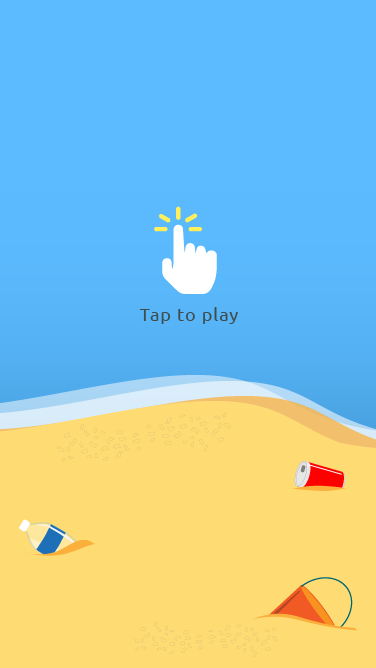
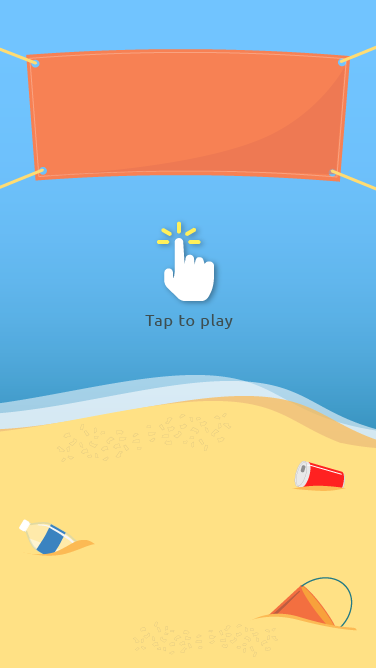
Amend layout of menu and game over screens

diff --git a/states/gameOver.js b/states/gameOver.js
@@ -11,17 +11,17 @@ GameOver.prototype = {
 
   addMenuOption: function(text, callback) {
     var optionStyle = { font: '25pt ubuntu', fill: 'white', align: 'left', stroke: 'rgba(0,0,0,0)', strokeThickness: 4};
-    var txt = game.add.text(game.world.centerX, (this.optionCount * 80) + 370, text, optionStyle);
+    var txt = game.add.text(game.world.centerX, (this.optionCount * 60) + 450, text, optionStyle);
     txt.anchor.setTo(0.5);
     txt.stroke = "rgba(0,0,0,0)";
-    txt.strokeThickness = 4;
+    txt.setShadow(2, 2, 'rgba(0,0,0,0.6)', 5);
     var onOver = function (target) {
-      target.fill = "#FEFFD5";
-      target.stroke = "rgba(200,200,200,0.5)";
+      target.fill = "#fff";
+      target.stroke = "rgba(0,0,0,0.1)";
       txt.useHandCursor = true;
     };
     var onOut = function (target) {
-      target.fill = "white";
+      target.fill = "#fff";
       target.stroke = "rgba(0,0,0,0)";
       txt.useHandCursor = false;
     };
@@ -35,7 +35,9 @@ GameOver.prototype = {
   },
 
   create: function () {
-    game.stage.backgroundColor = "#C1666B";
+    //game.stage.backgroundColor = "#f78154";
+    //add game over background
+    game.gameOverBg = game.add.sprite(0, 0, 'bg');
     //game.add.sprite(0, 0, 'gameover-bg');
     var titleStyle = { font: '30pt ubuntu', fill: '#FDFFB5', align: 'center'};
     var scoreStyle = { font: '18pt ubuntu', fill: '#FDFFB5', align: 'center'};
@@ -45,9 +47,9 @@ GameOver.prototype = {
     //var nets = game.add.text(game.world.centerX, 250, finalNets, scoreStyle);
 
     // Add individual totals and sprites for each
-    var netSprite = game.add.sprite(-25, -80, 'net');
-    netSprite.scale.setTo(0.2,0.2);
-    var netTotal = game.add.text(60, 320, finalNets, totalStyle);
+    var netSprite = game.add.sprite(-70, -10, 'net');
+    netSprite.scale.setTo(0.18,0.18);
+    var netTotal = game.add.text(160, 280, finalNets, totalStyle);
     netTotal.addChild(netSprite);
     // Add a click event onto net item total 
     netTotal.inputEnabled=true;
@@ -56,25 +58,25 @@ GameOver.prototype = {
     // workaround for 'closure' (javascript feature)
     netTotal.events.onInputDown.add(this.infoPopup, this, 0, "net");  
    
-    var bottleSprite = game.add.sprite(-25, -80, 'bottle');
-    bottleSprite.scale.setTo(0.2,0.2);
-    var bottleTotal = game.add.text(140, 320, finalBottles, totalStyle);
+    var bottleSprite = game.add.sprite(-70, -10, 'bottle');
+    bottleSprite.scale.setTo(0.18,0.18);
+    var bottleTotal = game.add.text(270, 280, finalBottles, totalStyle);
     bottleTotal.addChild(bottleSprite);
     // Add a click event onto bottle item total 
     bottleTotal.inputEnabled=true;
     bottleTotal.events.onInputDown.add(this.infoPopup, this, 0, "bottle");
 
-    var canSprite = game.add.sprite(-25, -80, 'can');
-    canSprite.scale.setTo(0.2,0.2);
-    var canTotal = game.add.text(220, 320, finalCans, totalStyle);
+    var canSprite = game.add.sprite(-70, -10, 'can');
+    canSprite.scale.setTo(0.18,0.18);
+    var canTotal = game.add.text(160, 350, finalCans, totalStyle);
     canTotal.addChild(canSprite);
     // Add a click event onto can item total 
     canTotal.inputEnabled=true;
     canTotal.events.onInputDown.add(this.infoPopup, this, 0, "can");
 
-    var bucketSprite = game.add.sprite(-25, -80, 'bucket');
-    bucketSprite.scale.setTo(0.2,0.2);
-    var bucketTotal = game.add.text(300, 320, finalBuckets, totalStyle);
+    var bucketSprite = game.add.sprite(-70, -10, 'bucket');
+    bucketSprite.scale.setTo(0.18,0.18);
+    var bucketTotal = game.add.text(270, 350, finalBuckets, totalStyle);
     bucketTotal.addChild(bucketSprite);
     // Add a click event onto bucket item total 
     bucketTotal.inputEnabled=true;

diff --git a/states/gameMenu.js b/states/gameMenu.js
@@ -12,29 +12,30 @@ GameMenu.prototype = {
   },
 
   init: function () {
-    this.titleText = game.make.text(game.world.centerX, 110, "HELP CLEAN\nTHE BEACH!", {
-      font: '35pt ubuntu',
-      fill: '#3e4e50',
+    this.titleText = game.make.text(game.world.centerX, 113, "Help clean\nthe beach!", {
+      font: '30pt ubuntu',
+      fill: '#fff',
       align: 'center'
     });
-    //this.titleText.setShadow(3, 3, 'rgba(0,0,0,0.5)', 5);
+    this.titleText.setShadow(3, 3, 'rgba(0,0,0,0.3)', 5);
     this.titleText.anchor.set(0.5);
     this.optionCount = 1;
   },
 
   addMenuOption: function(text, callback) {
     var optionStyle = { font: '25pt ubuntu', fill: 'white', align: 'left', stroke: 'rgba(0,0,0,0)', strokeThickness: 4};
-    var txt = game.add.text(game.world.centerX, (this.optionCount * 60) + 400, text, optionStyle);
+    var txt = game.add.text(game.world.centerX, (this.optionCount * 60) + 430, text, optionStyle);
     txt.anchor.setTo(0.5);
     txt.stroke = "rgba(0,0,0,0)";
-    txt.strokeThickness = 4;
+    txt.setShadow(2, 2, 'rgba(0,0,0,0.6)', 5);
+    //txt.strokeThickness = 4;
     var onOver = function (target) {
-      target.fill = "#3e92cc";
-      target.stroke = "rgba(200,200,200,0.5)";
+      target.fill = "#fff";
+      target.stroke = "rgba(0,0,0,0.1)";
       txt.useHandCursor = true;
     };
     var onOut = function (target) {
-      target.fill = "white";
+      target.fill = "#fff";
       target.stroke = "rgba(0,0,0,0)";
       txt.useHandCursor = false;
     };

diff --git a/states/options.js b/states/options.js
@@ -22,7 +22,7 @@ Options.prototype = {
     var playSound = gameOptions.playSound,
         playMusic = gameOptions.playMusic;
 
-    game.stage.backgroundColor = "#00b6ba";
+    game.stage.backgroundColor = "#60d394";
     //game.add.sprite(0, 0, 'options-bg');
     game.add.existing(this.titleText);
     this.addMenuOption(playMusic ? 'Mute Music' : 'Play Music', function (target) {
